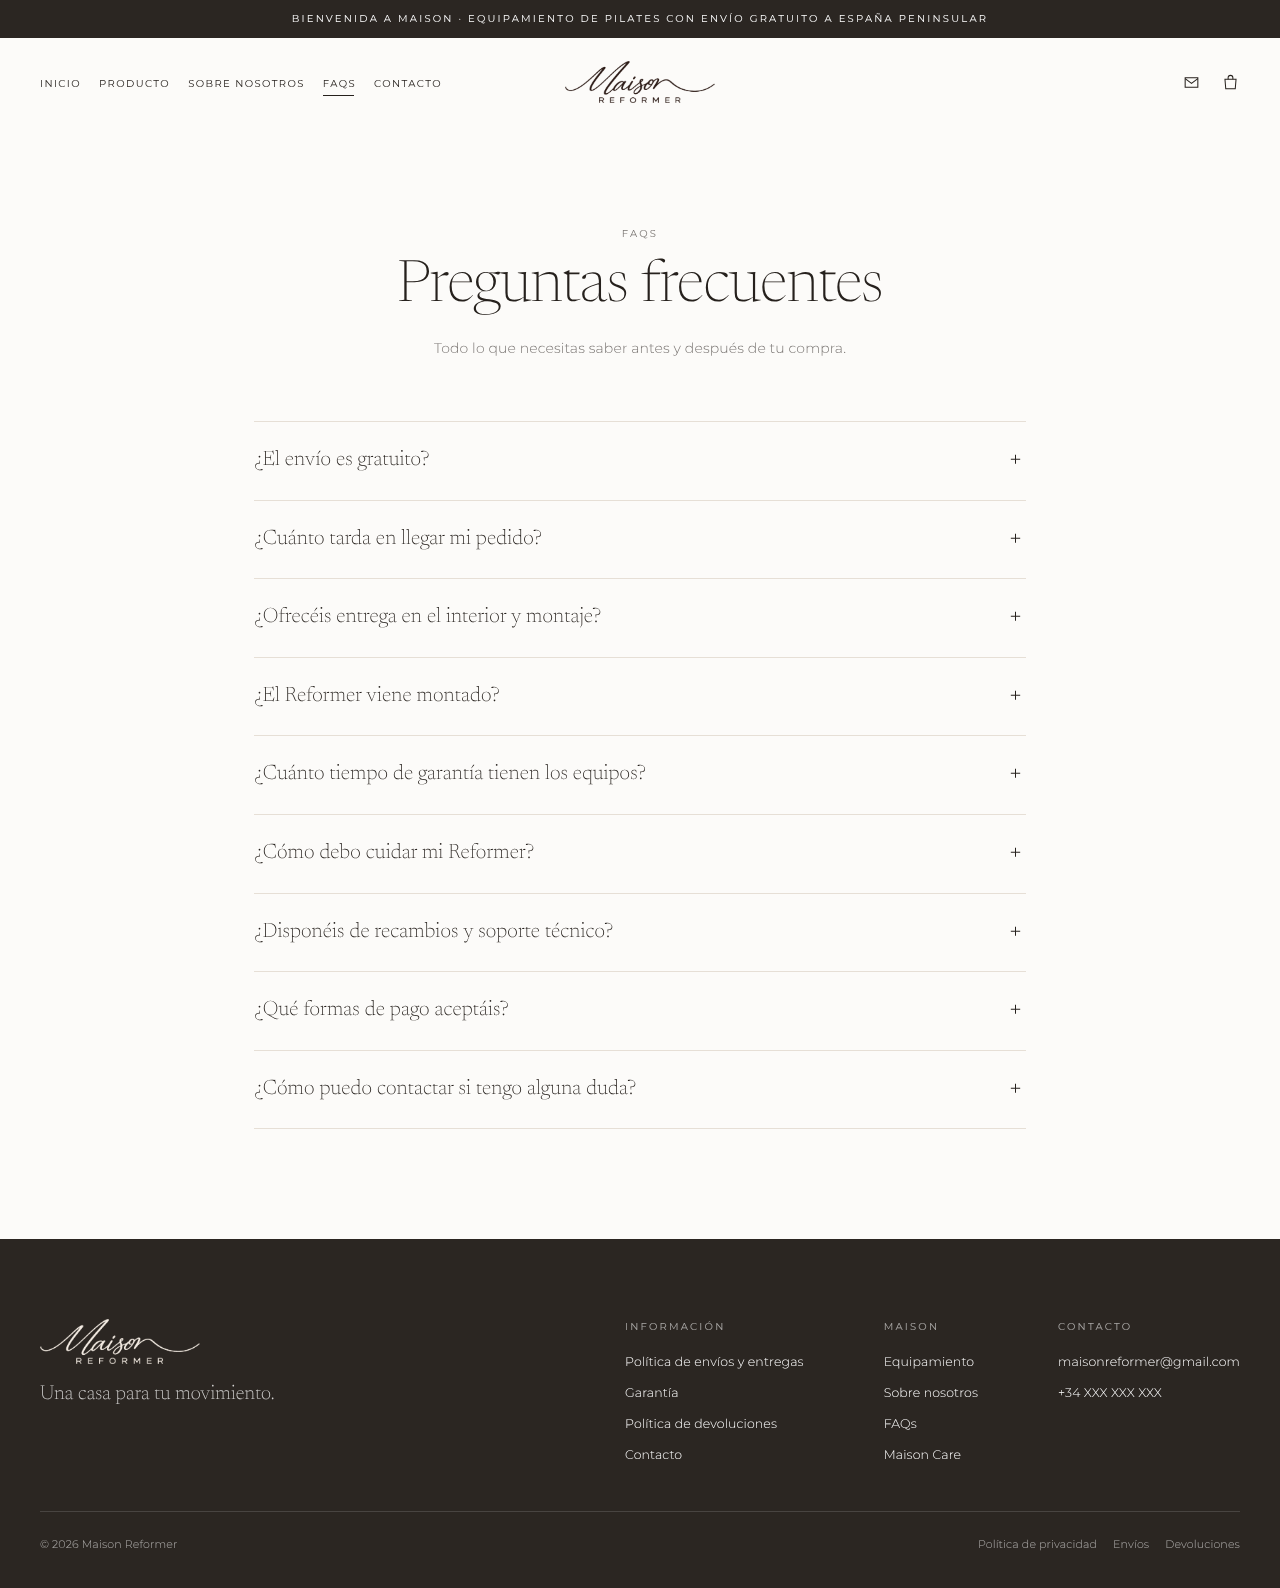
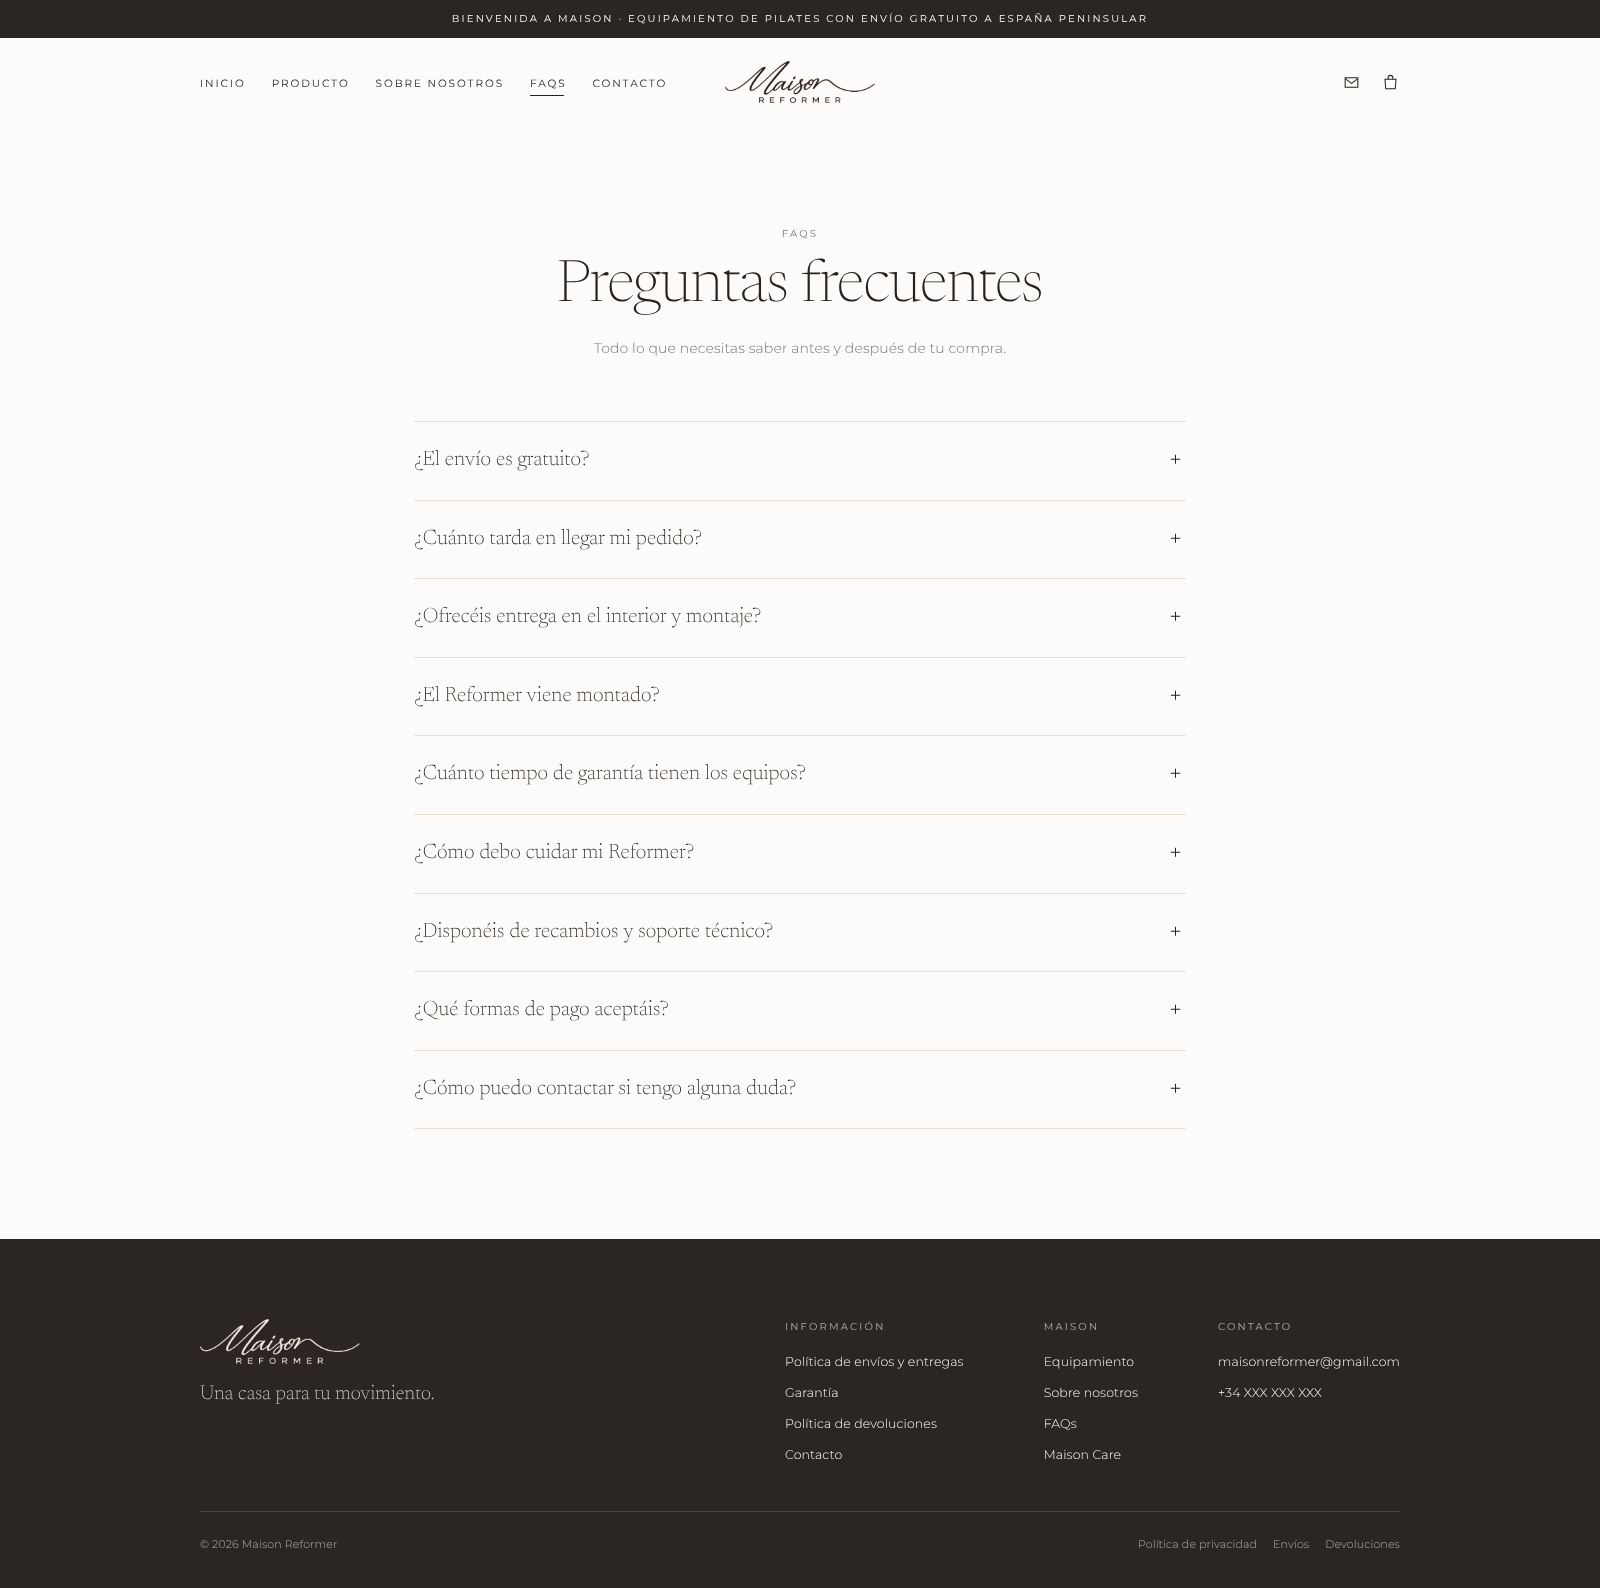
Versión de ordenador más contenida: columna centrada de 1200 px
Hero menos alto, carrusel con 4 piezas a la vista, bloques de imagen y
banda dentro de la columna y ficha de producto centrada. Tema WordPress
1.2.0 con los mismos cambios.

Claude-Session: https://claude.ai/code/session_01Kmjfpmw6MBJZFRJkHNTaPT

diff --git a/wordpress/maison-reformer/style.css b/wordpress/maison-reformer/style.css
@@ -3,7 +3,7 @@ Theme Name: Maison Reformer
 Theme URI: https://maisonreformer.com
 Author: Neris Studio
 Description: Tema a medida para Maison Reformer, equipamiento de Pilates en madera natural. Compatible con WooCommerce. Incluye importador de contenido en Apariencia → Maison Reformer.
-Version: 1.1.0
+Version: 1.2.0
 Requires at least: 6.2
 Requires PHP: 7.4
 WC requires at least: 8.0
@@ -633,6 +633,58 @@ strong, b { font-weight: 500; }
 @media (max-width: 1080px) and (min-width: 761px) { .header .wrap { grid-template-columns: 1fr auto; } .brand { justify-self: start; order: -1; } .header-left { order: 1; justify-self: end; } .header-tools { display: none; } }
 
 /* =========================================================================
+   v4 · Contenido centrado y proporciones más contenidas en ordenador
+   ========================================================================= */
+:root {
+  --max: 1200px;
+  --side: max(var(--gutter), calc((100vw - var(--max)) / 2));
+}
+.wrap { max-width: calc(var(--max) + var(--gutter) * 2); }
+.header .wrap { max-width: none; padding: 0 var(--side); }
+.footer { padding-left: var(--side); padding-right: var(--side); }
+
+/* Hero: a sangre pero menos alto */
+.hero { height: min(84vh, 760px); min-height: 520px; }
+
+/* Ventajas alineadas con el contenido */
+.perks { max-width: var(--max); margin: 0 auto; border-bottom: 0; }
+.perks + .statement { border-top: 1px solid var(--line); max-width: var(--max); margin: 0 auto; }
+
+/* Carrusel: 4 piezas a la vista, alineado con la columna */
+.carousel { padding: 0 var(--side) 10px; scroll-padding: 0 var(--side); grid-auto-columns: calc((min(100vw - var(--gutter) * 2, var(--max)) - 48px) / 4); }
+
+/* Bloques de imagen dentro de la columna y más bajos */
+.duo { padding: 0 var(--side); gap: 20px; }
+.duo-tile { aspect-ratio: 4 / 3; }
+.duo-text { left: 32px; bottom: 30px; }
+.spotlight { padding: 140px var(--side); gap: 80px; grid-template-columns: 1.1fr 1fr; }
+.banner { margin: 0 var(--side); min-height: min(62vh, 560px); }
+.banner.parallax img { height: 140%; top: -20%; }
+.page-hero { height: min(50vh, 460px); }
+
+/* Ficha de producto centrada */
+.product { max-width: calc(var(--max) + var(--gutter) * 2); margin: 30px auto 0; padding: 0 var(--gutter); gap: 70px; }
+.gallery { top: 110px; }
+.buy { padding: 40px 0 90px; }
+
+@media (max-width: 900px) {
+  .carousel { grid-auto-columns: 62%; }
+  .duo-tile { aspect-ratio: 4 / 5; }
+  .banner { margin: 0; }
+  .product { gap: 0; padding: 0; margin-top: 0; }
+  .buy { padding: 40px 20px 70px; }
+}
+@media (max-width: 760px) {
+  .carousel { grid-auto-columns: 82%; }
+  .hero { height: 88vh; }
+}
+.hero-text { padding: 0 var(--side); }
+.duo-tile::after { background: linear-gradient(0deg, rgba(35, 26, 19, .55) 0%, rgba(35, 26, 19, 0) 55%); }
+@media (max-width: 760px) { .hero-text { padding: 0 var(--gutter) 44px; } }
+.product { grid-template-columns: 1.25fr 1fr; }
+@media (max-width: 900px) { .product { grid-template-columns: 1fr; } }
+
+/* =========================================================================
    WordPress
    ========================================================================= */
 .screen-reader-text { position: absolute !important; width: 1px; height: 1px; overflow: hidden; clip: rect(0 0 0 0); }
@@ -761,12 +813,19 @@ strong, b { font-weight: 500; }
   border: 1px solid #cfc6bc !important; border-radius: 0 !important; padding: 12px 14px; font-family: var(--sans);
 }
 
+/* Ficha centrada en ordenador (v4) */
+.single-product div.product { max-width: calc(var(--max) + var(--gutter) * 2); margin: 30px auto 0; padding: 0 var(--gutter); gap: 70px; grid-template-columns: 1.25fr 1fr; }
+.single-product div.product .woocommerce-product-gallery { top: 110px; }
+.single-product div.product .summary { padding: 40px 0 90px; }
+.single-product .related, .single-product .upsells { padding: 90px 0; }
+
 @media (max-width: 1100px) {
   .woocommerce ul.products, ul.products { grid-template-columns: repeat(3, 1fr); }
 }
 @media (max-width: 900px) {
   .woocommerce ul.products, ul.products { grid-template-columns: repeat(2, 1fr); gap: 30px 12px; }
-  .single-product div.product { grid-template-columns: 1fr; }
+  .single-product div.product { grid-template-columns: 1fr; gap: 0; padding: 0; margin-top: 0; }
+  .single-product .related, .single-product .upsells { padding: 70px var(--gutter); }
   .single-product div.product .woocommerce-product-gallery { position: relative; top: 0; }
   .single-product div.product .summary { padding: 40px 20px 60px; }
 }

diff --git a/maison-reformer/css/style.css b/maison-reformer/css/style.css
@@ -618,3 +618,55 @@ strong, b { font-weight: 500; }
 .nav a { letter-spacing: .18em; }
 @media (max-width: 1340px) { .nav ul { gap: 18px; } .nav a { letter-spacing: .14em; font-size: 10px; } }
 @media (max-width: 1080px) and (min-width: 761px) { .header .wrap { grid-template-columns: 1fr auto; } .brand { justify-self: start; order: -1; } .header-left { order: 1; justify-self: end; } .header-tools { display: none; } }
+
+/* =========================================================================
+   v4 · Contenido centrado y proporciones más contenidas en ordenador
+   ========================================================================= */
+:root {
+  --max: 1200px;
+  --side: max(var(--gutter), calc((100vw - var(--max)) / 2));
+}
+.wrap { max-width: calc(var(--max) + var(--gutter) * 2); }
+.header .wrap { max-width: none; padding: 0 var(--side); }
+.footer { padding-left: var(--side); padding-right: var(--side); }
+
+/* Hero: a sangre pero menos alto */
+.hero { height: min(84vh, 760px); min-height: 520px; }
+
+/* Ventajas alineadas con el contenido */
+.perks { max-width: var(--max); margin: 0 auto; border-bottom: 0; }
+.perks + .statement { border-top: 1px solid var(--line); max-width: var(--max); margin: 0 auto; }
+
+/* Carrusel: 4 piezas a la vista, alineado con la columna */
+.carousel { padding: 0 var(--side) 10px; scroll-padding: 0 var(--side); grid-auto-columns: calc((min(100vw - var(--gutter) * 2, var(--max)) - 48px) / 4); }
+
+/* Bloques de imagen dentro de la columna y más bajos */
+.duo { padding: 0 var(--side); gap: 20px; }
+.duo-tile { aspect-ratio: 4 / 3; }
+.duo-text { left: 32px; bottom: 30px; }
+.spotlight { padding: 140px var(--side); gap: 80px; grid-template-columns: 1.1fr 1fr; }
+.banner { margin: 0 var(--side); min-height: min(62vh, 560px); }
+.banner.parallax img { height: 140%; top: -20%; }
+.page-hero { height: min(50vh, 460px); }
+
+/* Ficha de producto centrada */
+.product { max-width: calc(var(--max) + var(--gutter) * 2); margin: 30px auto 0; padding: 0 var(--gutter); gap: 70px; }
+.gallery { top: 110px; }
+.buy { padding: 40px 0 90px; }
+
+@media (max-width: 900px) {
+  .carousel { grid-auto-columns: 62%; }
+  .duo-tile { aspect-ratio: 4 / 5; }
+  .banner { margin: 0; }
+  .product { gap: 0; padding: 0; margin-top: 0; }
+  .buy { padding: 40px 20px 70px; }
+}
+@media (max-width: 760px) {
+  .carousel { grid-auto-columns: 82%; }
+  .hero { height: 88vh; }
+}
+.hero-text { padding: 0 var(--side); }
+.duo-tile::after { background: linear-gradient(0deg, rgba(35, 26, 19, .55) 0%, rgba(35, 26, 19, 0) 55%); }
+@media (max-width: 760px) { .hero-text { padding: 0 var(--gutter) 44px; } }
+.product { grid-template-columns: 1.25fr 1fr; }
+@media (max-width: 900px) { .product { grid-template-columns: 1fr; } }

diff --git a/wordpress/maison-reformer/functions.php b/wordpress/maison-reformer/functions.php
@@ -7,7 +7,7 @@
 
 defined( 'ABSPATH' ) || exit;
 
-define( 'MAISON_VERSION', '1.1.0' );
+define( 'MAISON_VERSION', '1.2.0' );
 define( 'MAISON_DIR', get_template_directory() );
 define( 'MAISON_URI', get_template_directory_uri() );
 
